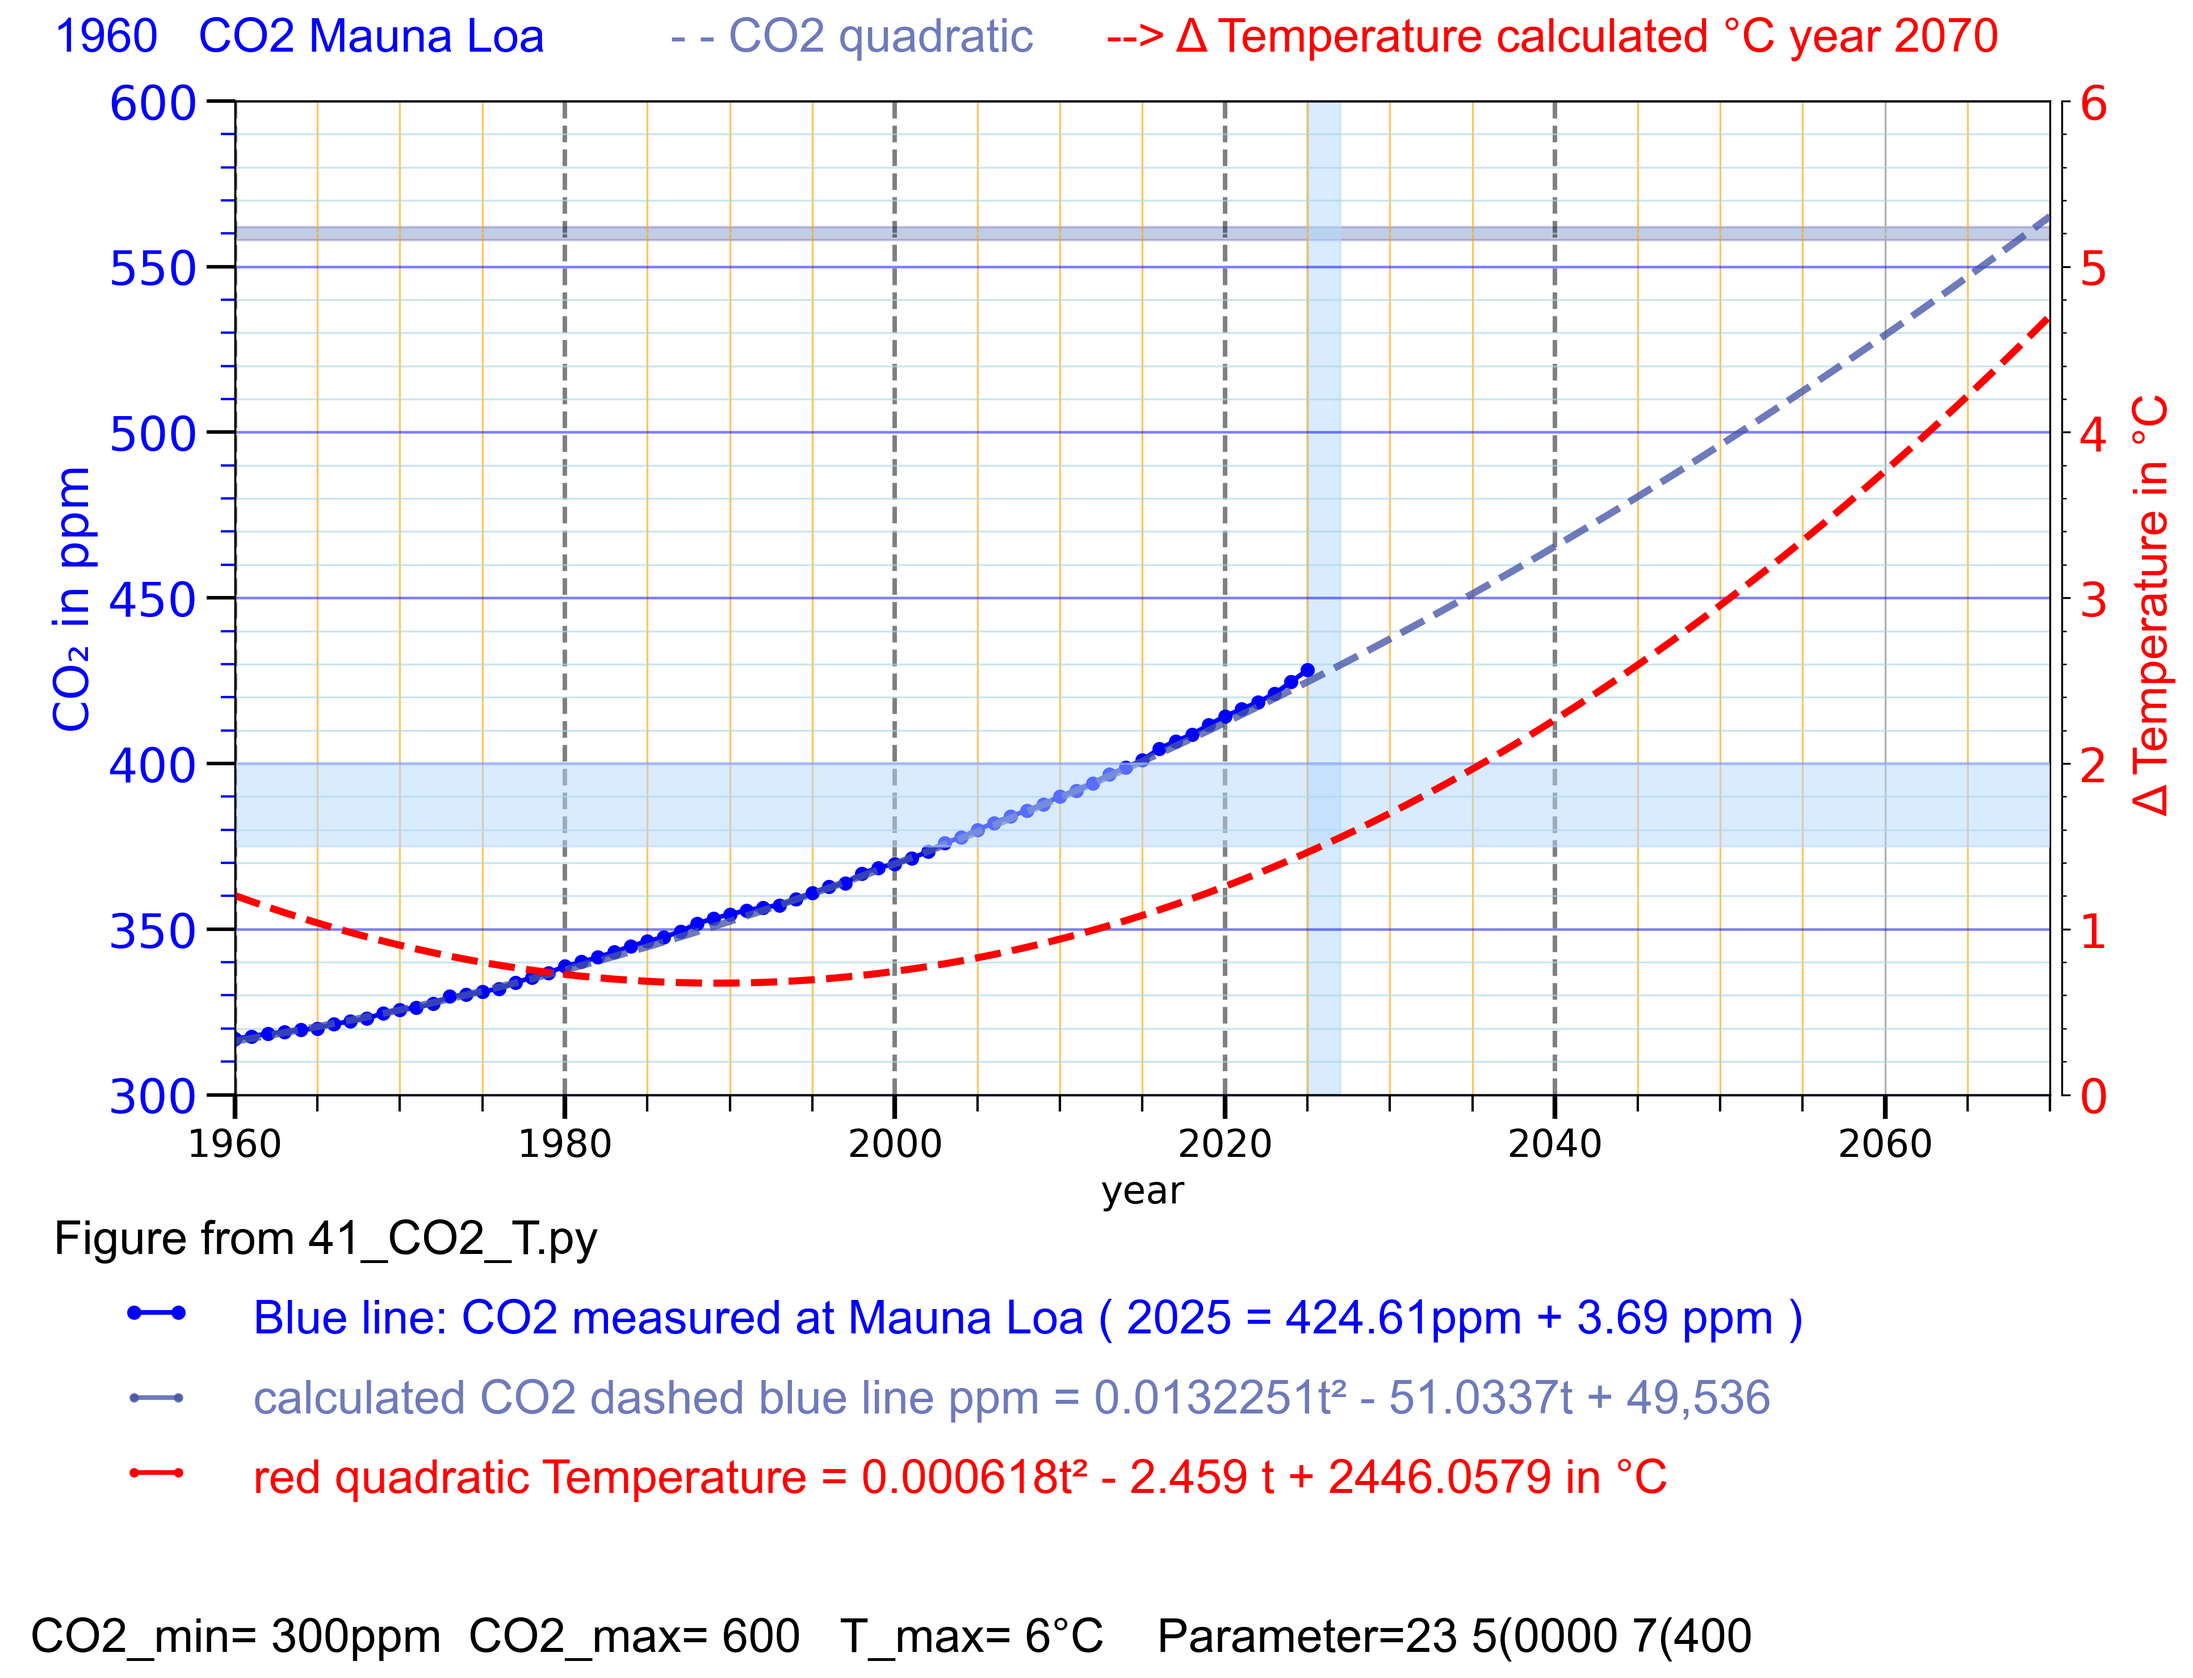
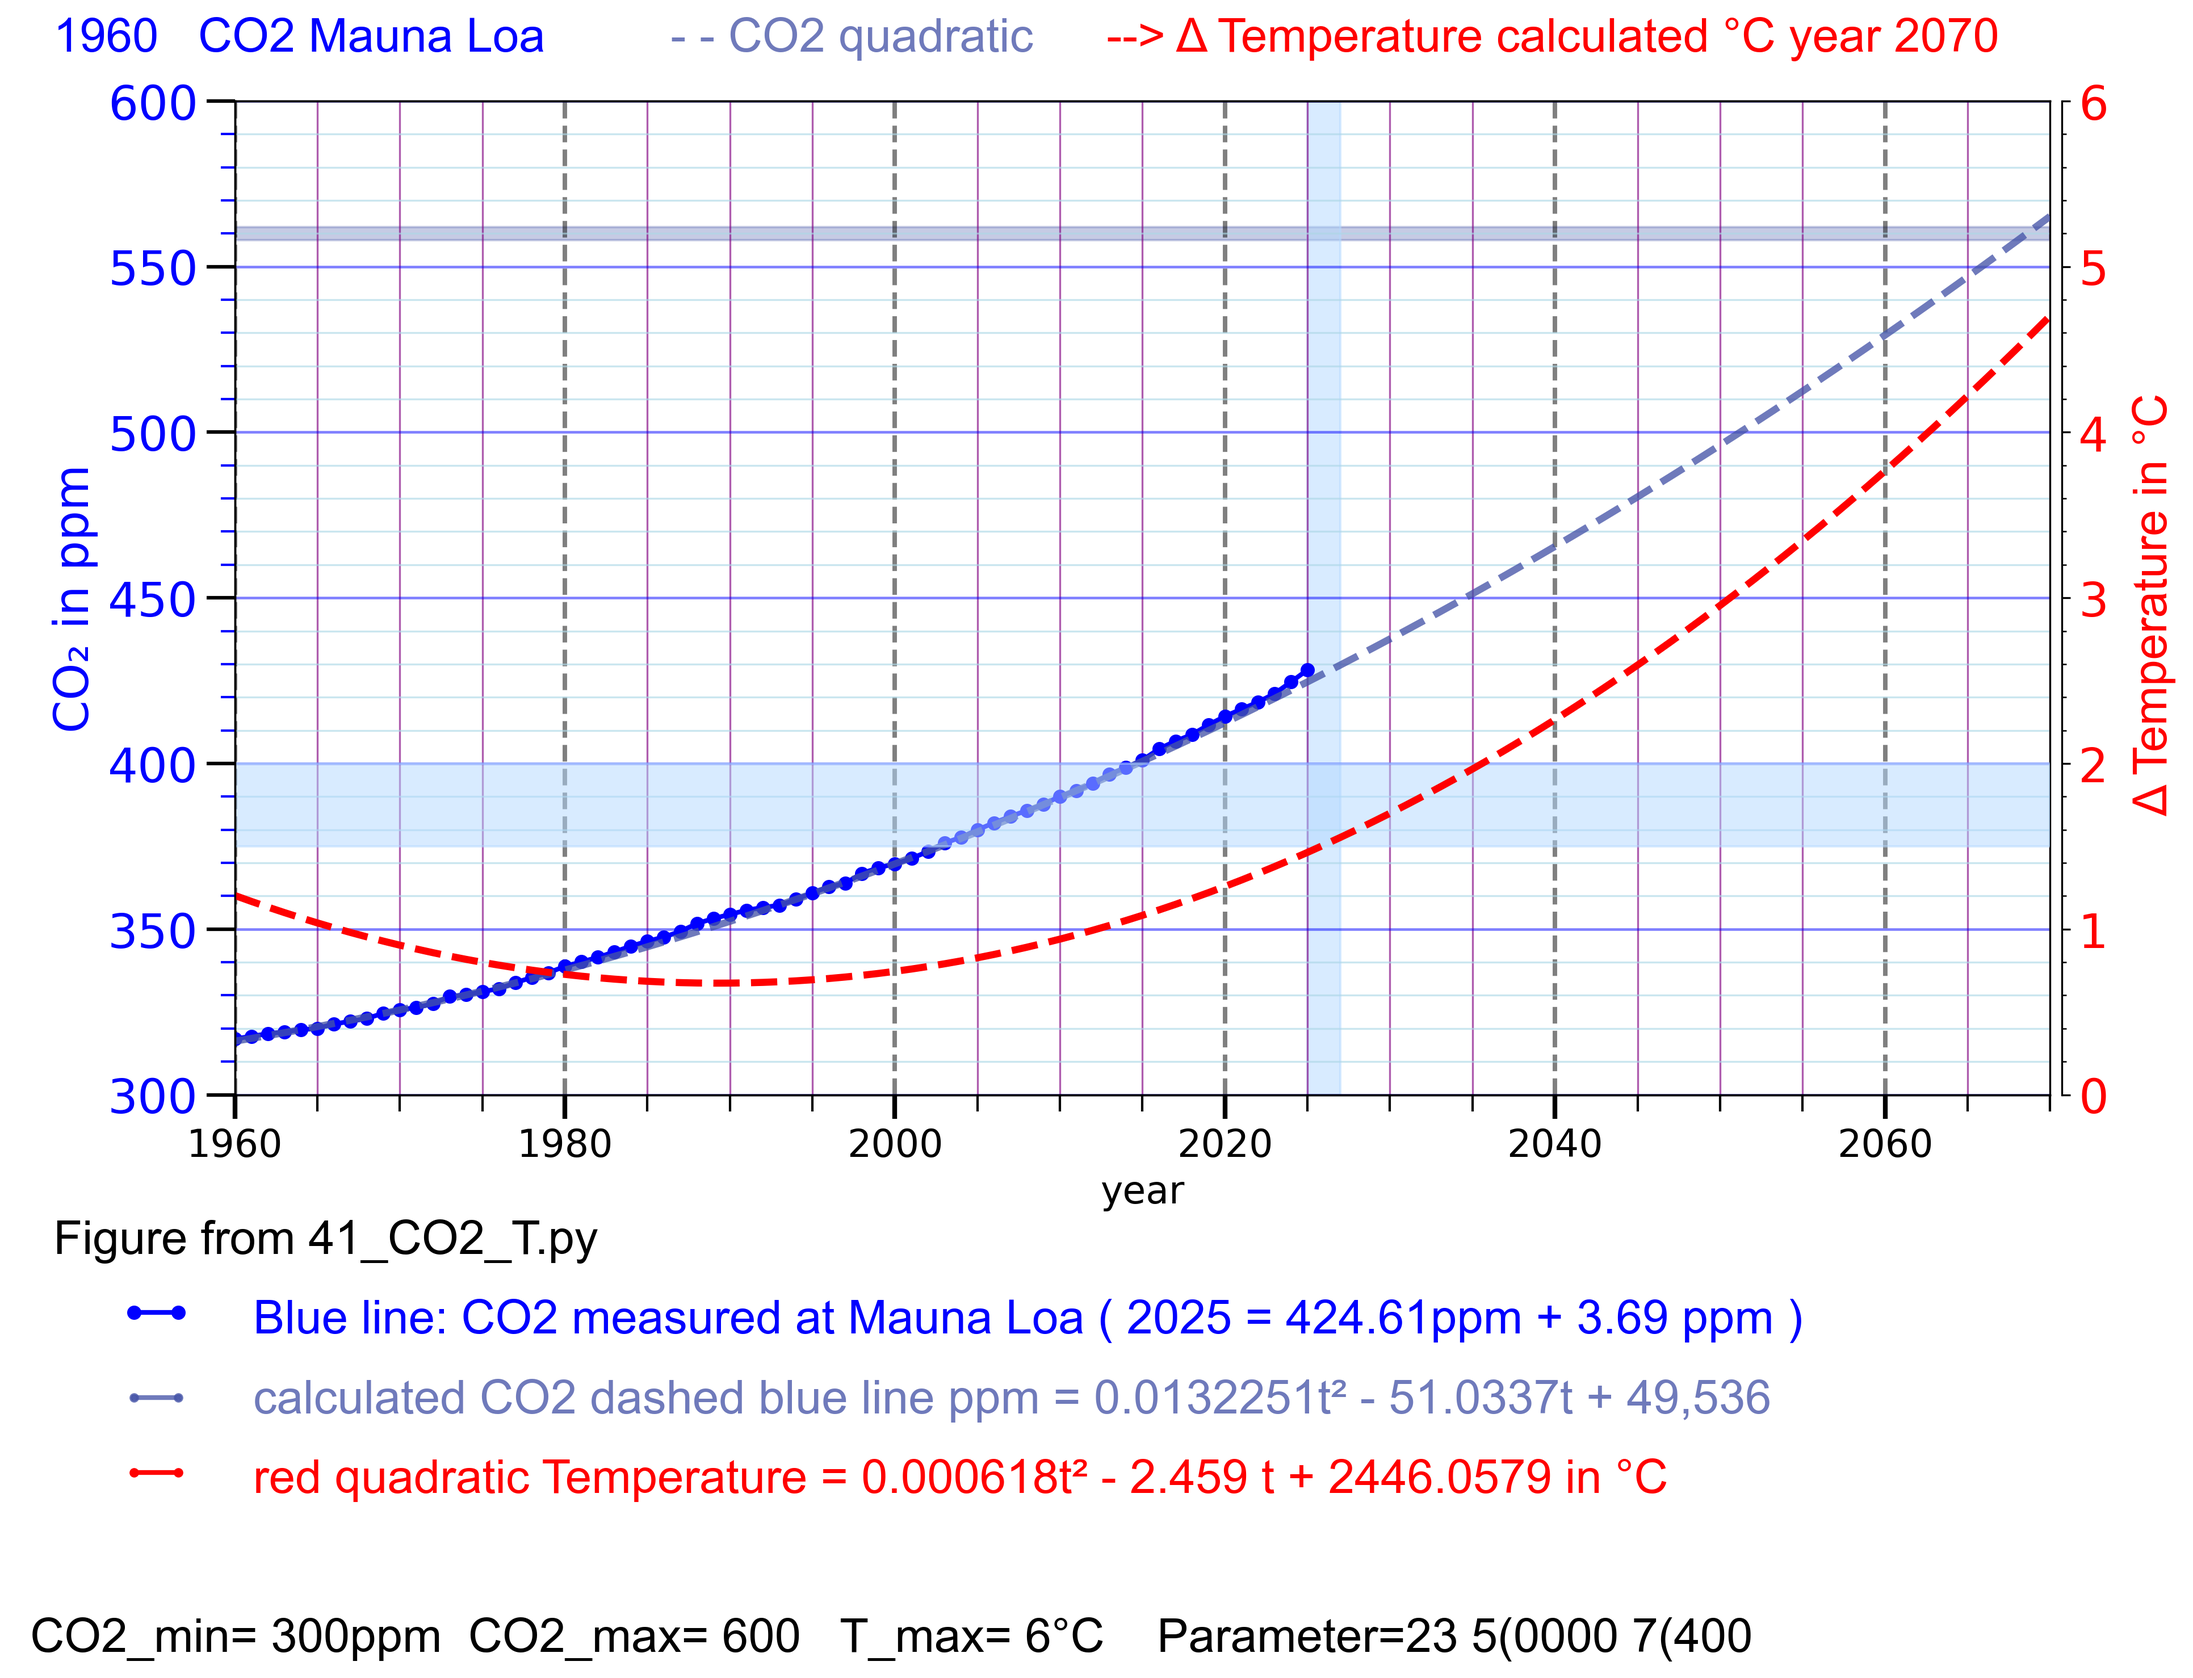
41s7_CO2_T.py part 8.2 grids

diff --git a/41_CO2_T.py b/41_CO2_T.py
@@ -1,4 +1,4 @@
-# 41s6_CO2_T.py x axis ok with plot71_temperature = 4
+# 41s7_CO2_T.py part 8.2 grids
 # Thomas Boettcher
 # part 1 configure 
 # part 2 plot CO2 Mauna Loa
@@ -242,28 +242,8 @@ ax1.grid(True)
 if scale_mode == 10:
    # 2.5.1 scale the Y axis
    ax1.set_ylim(y_min, y_max)
-   # 2.5.2 scale the Y axis 50ppm main items
-   ax1.yaxis.set_major_locator(MultipleLocator(y_mayor_ticks))   # 50 Hauptstriche
-   ax1.tick_params(axis='y', which='major', length=12, width=1.5)
-   # 2.5.3 scale the Y axis 10ppm minor items
-   ax1.yaxis.set_minor_locator(MultipleLocator(y_minor_ticks))   # 10 Nebenstriche
-   ax1.tick_params(axis='y', which='minor', length=6,  width=1, color='blue')
-
-   # 2.5.4 scale the x axis major 20 years
-   ax1.xaxis.set_major_locator(MultipleLocator(x_mayor_ticks))  # works
-   ax1.tick_params(axis='x', which='major', length=10, width=2) # all 20 years
-
-   # 2.5.5 scale the x axis minor 5 years
-   ax1.xaxis.set_minor_locator(MultipleLocator(x_minor_ticks))   # no work
-   ax1.tick_params(axis='x', which='minor', length=7,  width=1)
    
-   # 2.5.6 horizontal line at 1120 ppm
-   ax1.axhspan(4 * C280 -2, 4 * C280 +2, color=c3, alpha=0.25, zorder=0)      # 1120 ppm horicontal stripe
-   # 2.5.6 horizontal line at 560 ppm
-   ax1.axhspan(2 * C280 -2, 2 * C280 +2, color=c3, alpha=0.3, zorder=0)        # 560 ppm horicontal stripe
-   # 2.5.7 vertical line at year 2026
-   ax1.axvspan(2025, 2027, color="#B3D9FF", alpha=0.5, zorder=0) # vertical bar'
- 
+   
    # 2.6.1 vertical major grid all 20 years
    for line in ax1.get_xgridlines():   # vertical lines
        line.set_color('black')          # vertical color
@@ -271,7 +251,7 @@ if scale_mode == 10:
        line.set_linestyle('--')        # optional '--'
        line.set_linewidth(1.9)   # <-- thickness
    # 2.6.2 vertical minor grid all 2 years
-   ax1.grid(True, which="minor", axis="x", color="orange", alpha=0.64)   # no work vertical
+   # ax1.grid(True, which="minor", axis="x", color="purple", alpha=0.64)   # work vertical 5 years
    # 2.6.3 horizontal major grid all 50ppm
    for line in ax1.get_ygridlines():    # horizontal lines
        line.set_color('blue')           # horizontal color
@@ -472,9 +452,9 @@ if plot71_temperature > 0:
    ax71.plot(df7["Year71"], df7["Modeled71"], '--', label="T formula CO2=  K6", color=c71, linewidth=3)
    ax71.tick_params(axis="y", labelcolor=c71)
    ax71.set_ylim(y_Tmin, y_Tmax) # scale
-    # big ticks 2°C
+    # y axis big ticks 2°C
    ax71.yaxis.set_major_locator(MultipleLocator(y_Tmayor_ticks))   # Hauptstriche
-   # small ticks 0.2°C
+   # y axis small ticks 0.2°C
    ax71.yaxis.set_minor_locator(MultipleLocator(y_Tminor_ticks))   # Nebenstriche
 # 7.1.7 plot71 Achse und Beschriftung
 if plot71_temperature > 0:
@@ -609,7 +589,32 @@ else:
    # 8.3.3 plot the headline
    plt.text(-0.1, 1.05, header, color="black", fontname="Arial", fontsize=18,
             transform=plt.gca().transAxes)
-            
+
+# 8.9 make the grid and or axis   
+# 8.9.5 vertical minorlines all 5 years        
+ax1.grid(True, which="minor", axis="x", color="purple", alpha=0.64)   # work vertical 5 years
+# 2.5.2 scale the Y axis 50ppm main items
+ax1.yaxis.set_major_locator(MultipleLocator(y_mayor_ticks))   # 50 Hauptstriche
+ax1.tick_params(axis='y', which='major', length=12, width=1.5)
+   # 2.5.3 scale the Y axis 10ppm minor items
+ax1.yaxis.set_minor_locator(MultipleLocator(y_minor_ticks))   # 10 Nebenstriche
+ax1.tick_params(axis='y', which='minor', length=6,  width=1, color='blue')
+   # 2.5.4 scale the x axis major 20 years
+ax1.xaxis.set_major_locator(MultipleLocator(x_mayor_ticks))  # works
+ax1.tick_params(axis='x', which='major', length=10, width=2) # all 20 years
+
+   # 2.5.5 scale the x axis minor 5 years
+ax1.xaxis.set_minor_locator(MultipleLocator(x_minor_ticks))   # no work
+ax1.tick_params(axis='x', which='minor', length=7,  width=1)
+   
+   # 2.5.6 horizontal line at 1120 ppm
+ax1.axhspan(4 * C280 -2, 4 * C280 +2, color=c3, alpha=0.25, zorder=0)      # 1120 ppm horicontal stripe
+   # 2.5.6 horizontal line at 560 ppm
+ax1.axhspan(2 * C280 -2, 2 * C280 +2, color=c3, alpha=0.3, zorder=0)        # 560 ppm horicontal stripe
+   # 2.5.7 vertical line at year 2026
+ax1.axvspan(2025, 2027, color="#B3D9FF", alpha=0.5, zorder=0) # vertical bar'
+ 
+
 
 
 # 9 part 9 print information below the plot field
